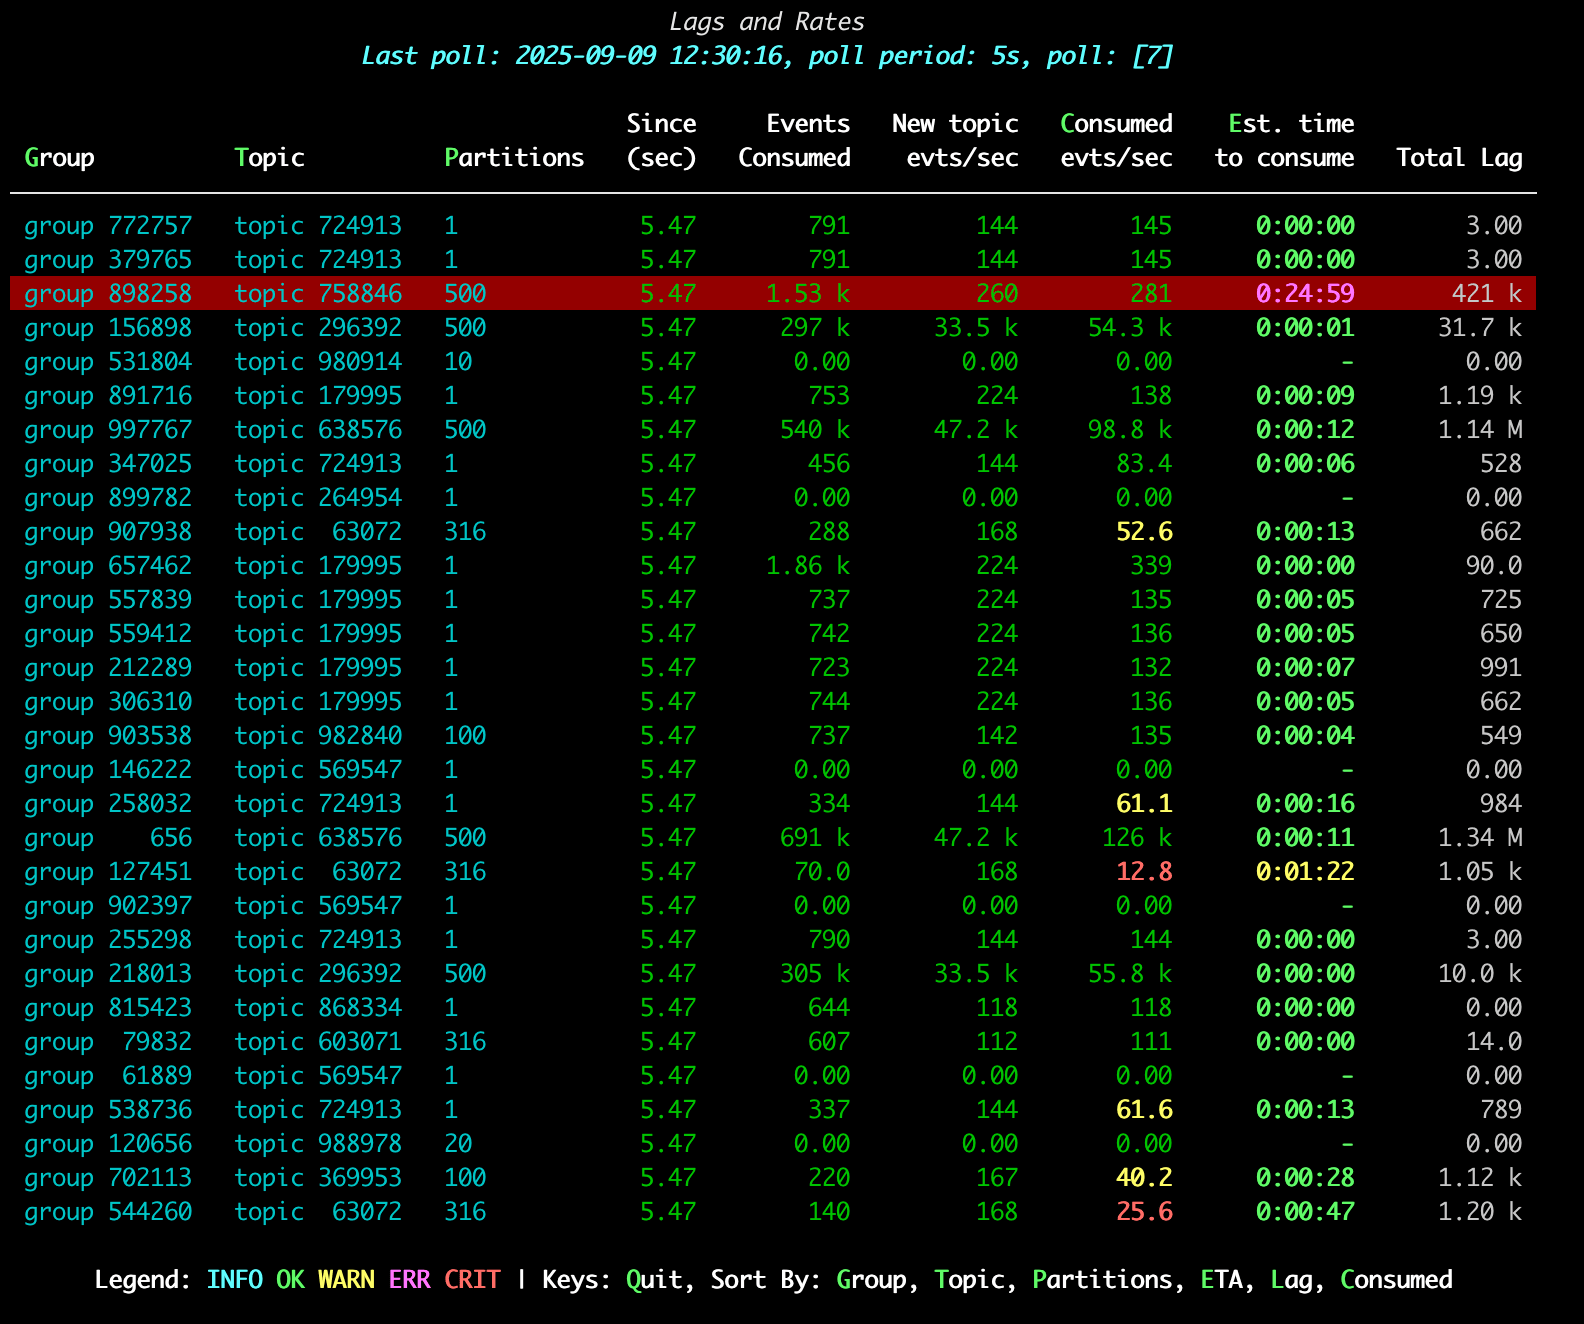
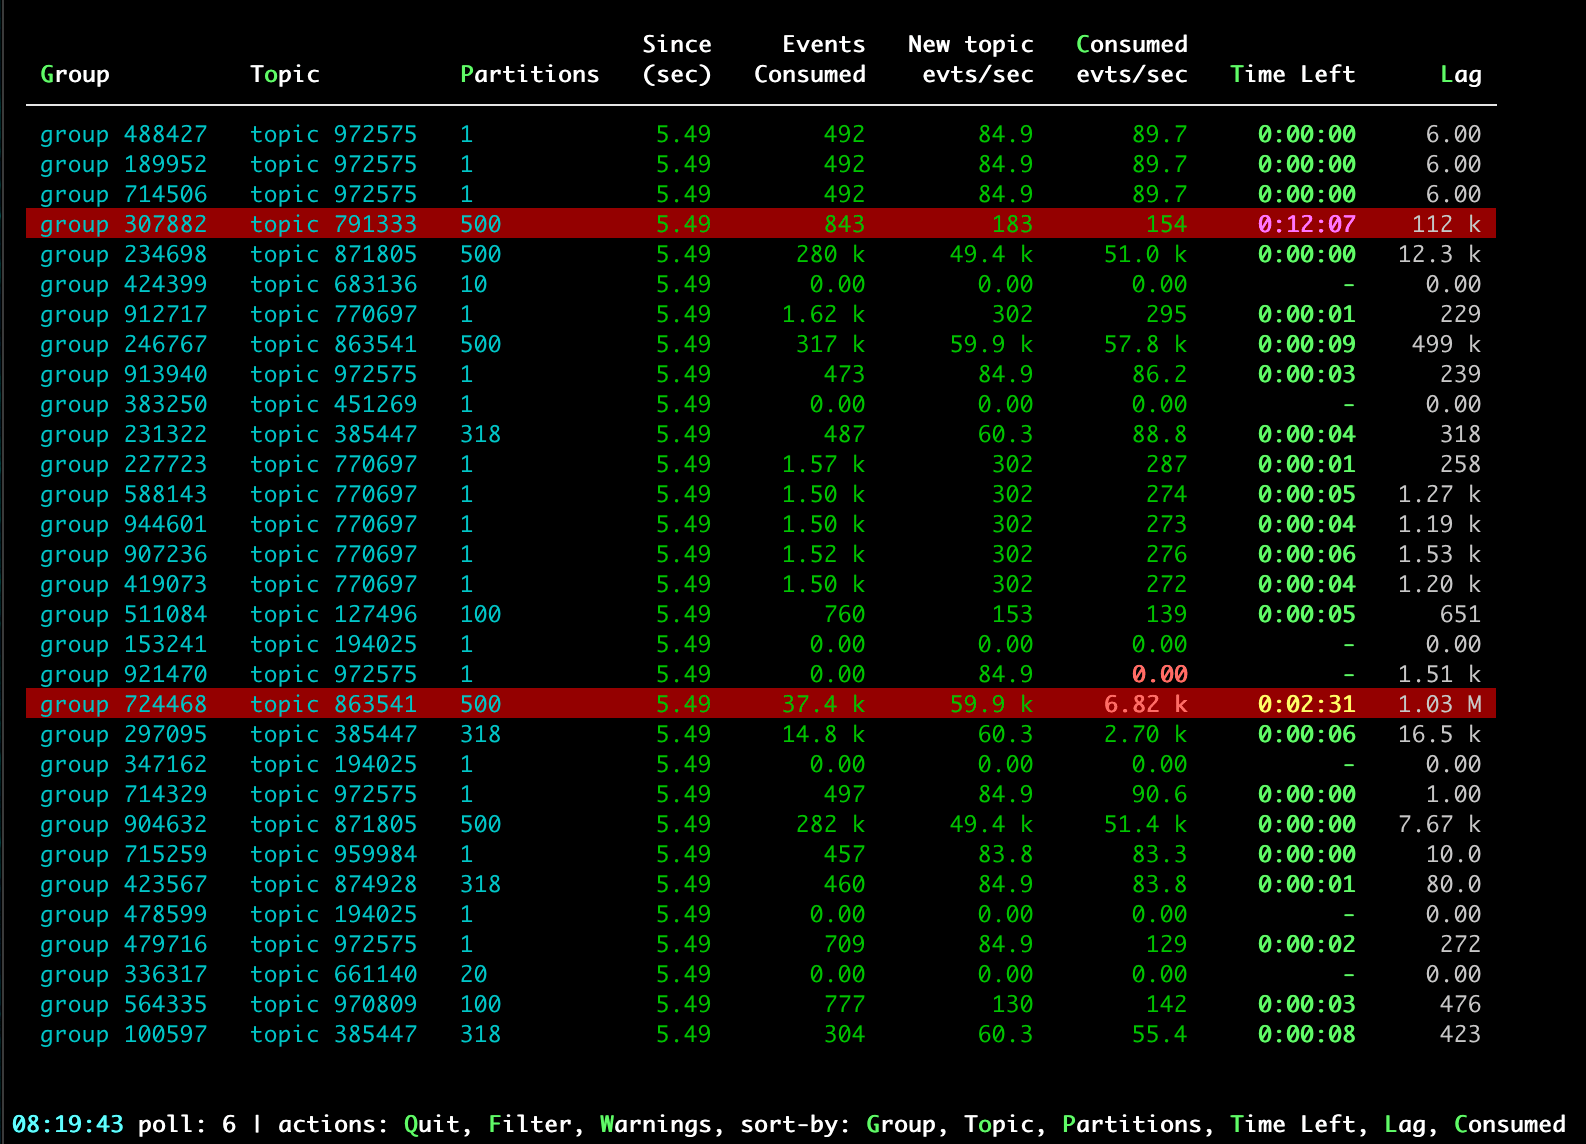
new screenshot

Changed region(s): [[0.0, 0.0, 0.9899, 1.0]]

diff --git a/kafkatop.py b/kafkatop.py
@@ -724,8 +724,7 @@ def lag_show_rich(params, args):
         # Create legend text with poll info
         time_str = datetime.datetime.now().strftime("%H:%M:%S")
         legend_text = (f"[bold cyan]{time_str}[/] poll: {iteration} | "
-                       f"legend: [cyan]INFO[/] [green]OK[/] [yellow]WARN[/] "
-                       f"[magenta]ERR[/] [red]CRIT[/] | keys: [green]Q[/green]uit, "
+                       f"actions: [green]Q[/green]uit, "
                        f"[green]F[/green]ilter, [green]W[/green]arnings, sort-by: [green]G[/green]roup, "
                        f"T[green]o[/green]pic, [green]P[/green]artitions, "
                        f"[green]T[/green]ime Left, [green]L[/green]ag, "
